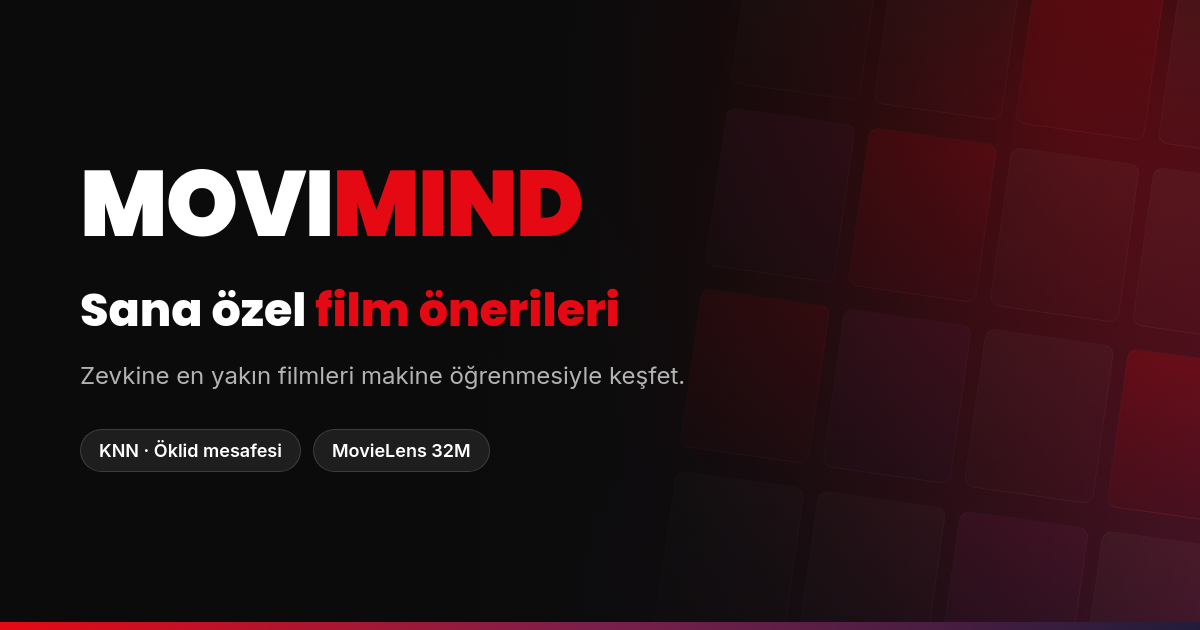
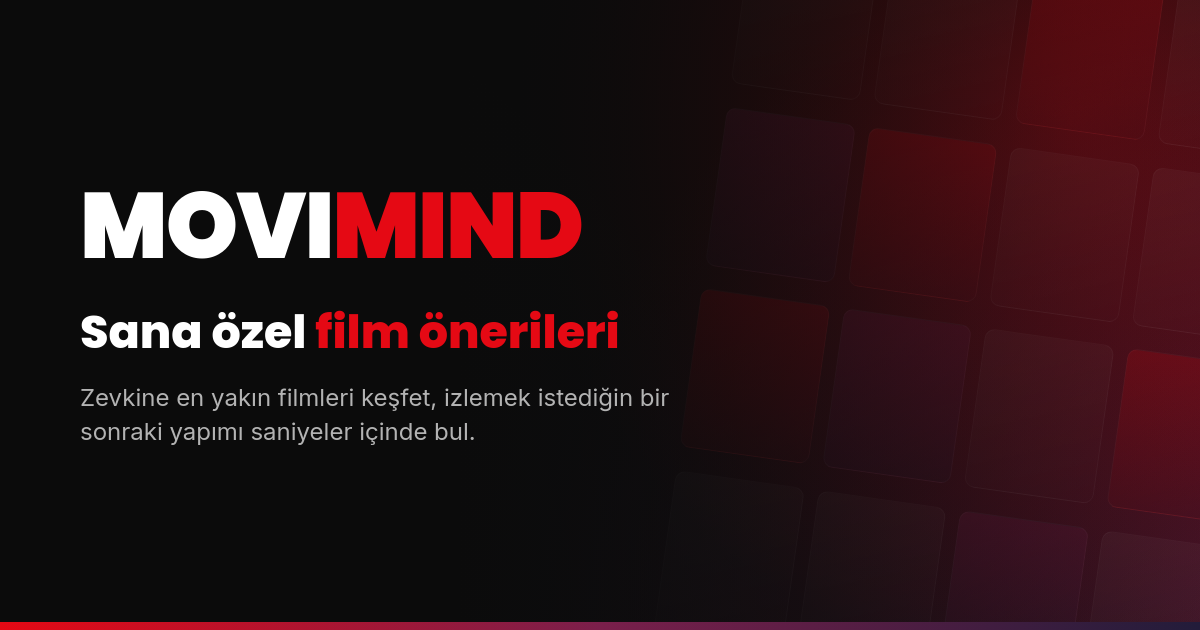
perf(client): load faster and simplify share preview
- load google fonts from html and preconnect to api, tmdb images and fonts
- use smaller posters for the home hero collage
- fetch tmdb and omdb details in parallel on first visit
- replace technical terms in the share image and description with the site tagline

Changed region(s): [[0.0617, 0.4524, 0.555, 0.7238], [0.0617, 0.2714, 0.4933, 0.4222]]

diff --git a/client/index.html b/client/index.html
@@ -9,12 +9,19 @@
     <link rel="icon" type="image/svg+xml" href="/src/assets/favicon.svg" />
     <link rel="canonical" href="%VITE_SITE_URL%/" />
 
+    <!-- Bağlantıları erken aç: API, poster sunucusu ve fontlar -->
+    <link rel="preconnect" href="%VITE_API_BASE%" crossorigin />
+    <link rel="preconnect" href="https://image.tmdb.org" />
+    <link rel="preconnect" href="https://fonts.googleapis.com" />
+    <link rel="preconnect" href="https://fonts.gstatic.com" crossorigin />
+    <link rel="stylesheet" href="https://fonts.googleapis.com/css2?family=Inter:wght@400;500;600;700;800&family=Poppins:wght@600;700;800;900&display=swap" />
+
     <!-- Sosyal paylaşım önizlemesi (Open Graph, X/Twitter) -->
     <meta property="og:type" content="website" />
     <meta property="og:locale" content="tr_TR" />
     <meta property="og:site_name" content="MOVIMIND" />
     <meta property="og:title" content="MOVIMIND | Sana Özel Film Önerileri" />
-    <meta property="og:description" content="Makine öğrenmesiyle (KNN) zevkine en yakın filmleri keşfet." />
+    <meta property="og:description" content="Zevkine en yakın filmleri keşfet, izlemek istediğin bir sonraki yapımı saniyeler içinde bul." />
     <meta property="og:url" content="%VITE_SITE_URL%/" />
     <meta property="og:image" content="%VITE_SITE_URL%/og-image.png" />
     <meta property="og:image:width" content="1200" />
@@ -22,7 +29,7 @@
     <meta property="og:image:alt" content="MOVIMIND: sana özel film önerileri" />
     <meta name="twitter:card" content="summary_large_image" />
     <meta name="twitter:title" content="MOVIMIND | Sana Özel Film Önerileri" />
-    <meta name="twitter:description" content="Makine öğrenmesiyle (KNN) zevkine en yakın filmleri keşfet." />
+    <meta name="twitter:description" content="Zevkine en yakın filmleri keşfet, izlemek istediğin bir sonraki yapımı saniyeler içinde bul." />
     <meta name="twitter:image" content="%VITE_SITE_URL%/og-image.png" />
   </head>
   <body>

diff --git a/client/src/features/home/HomePage.tsx b/client/src/features/home/HomePage.tsx
@@ -95,7 +95,8 @@ export default function HomePage() {
         <div className="home__hero-glow" />
         <div className="home__hero-collage" aria-hidden="true">
           {heroTiles.map((movie, i) => {
-            const poster = getPosterUrl(movie);
+            // Kolaj kutucukları küçük; yarı boyutlu poster yeterli
+            const poster = getPosterUrl(movie)?.replace("/w342/", "/w185/");
             const tileStyle = poster ? { backgroundImage: `url(${poster})` } : undefined;
             return (
               <div

diff --git a/client/src/styles/index.scss b/client/src/styles/index.scss
@@ -1,7 +1,6 @@
 @use './variables' as *;
 @use './reset';
 
-@import url('https://fonts.googleapis.com/css2?family=Inter:wght@400;500;600;700;800&family=Poppins:wght@600;700;800;900&display=swap');
 
 body {
   font-family: $font-sans;

diff --git a/server/app/services/external.py b/server/app/services/external.py
@@ -8,6 +8,7 @@ from __future__ import annotations
 
 import threading
 import time
+from concurrent.futures import ThreadPoolExecutor
 from datetime import datetime, timedelta, timezone
 
 import httpx
@@ -164,9 +165,13 @@ def _omdb_details(imdb_id: str) -> dict:
 def _fetch_details(tmdb_id: int, imdb_id: str) -> dict:
     resolved = _resolve_tmdb_id(int(tmdb_id or 0), imdb_id)
     result = {"available": config.has_tmdb or config.has_omdb}
-    if resolved:
-        result.update(_tmdb_details(resolved))
-    result.update(_omdb_details(imdb_id))
+    # TMDb ve OMDb birbirinden bağımsız; aynı anda istenir
+    with ThreadPoolExecutor(max_workers=2) as pool:
+        tmdb = pool.submit(_tmdb_details, resolved) if resolved else None
+        omdb = pool.submit(_omdb_details, imdb_id)
+        if tmdb:
+            result.update(tmdb.result())
+        result.update(omdb.result())
     return result
 
 
